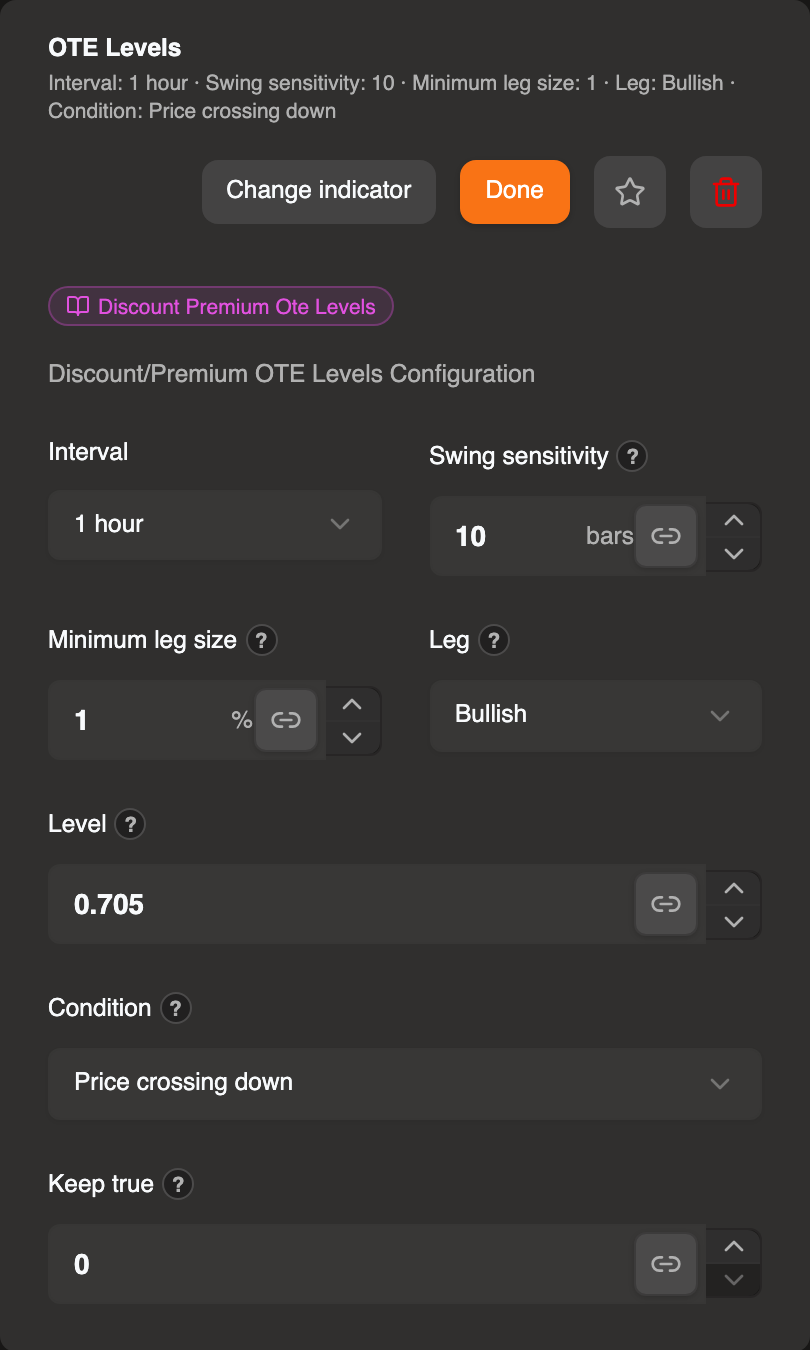
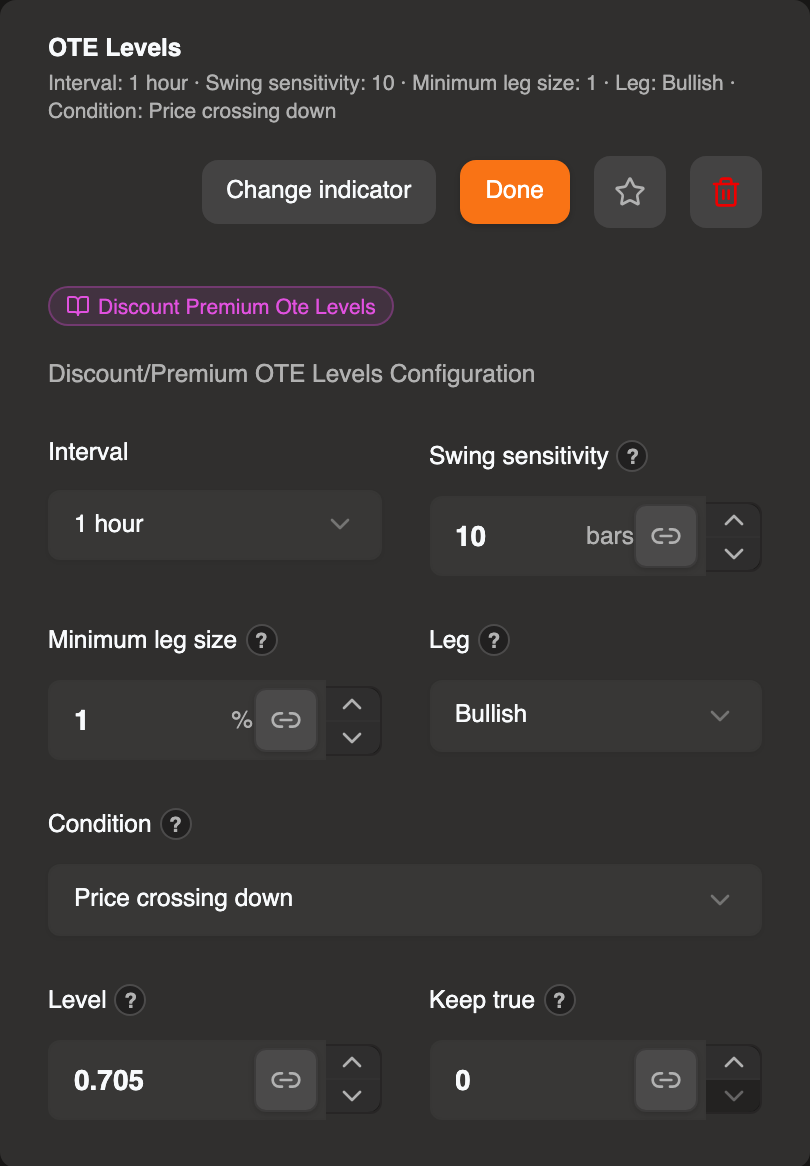
docs(help): OTE Levels — Condition before Level, settings screenshot retaken

diff --git a/docs/help/discount-premium-ote-levels.md b/docs/help/discount-premium-ote-levels.md
@@ -78,19 +78,19 @@ In your bot's settings, open the deal start (or another indicator section), choo
 
 ### Step 2: Configure the Settings
 
-![Discount/Premium OTE Levels settings in the bot form: Interval 1 hour, Swing sensitivity 10 bars, Minimum leg size 1 %, Leg Bullish, Level 0.705, Condition Price crossing down](https://content.gainium.io/images/content/help/discount-premium-ote-levels__settings.webp)
+![Discount/Premium OTE Levels settings in the bot form: Interval 1 hour, Swing sensitivity 10 bars, Minimum leg size 1 %, Leg Bullish, Condition Price crossing down, Level 0.705](https://content.gainium.io/images/content/help/discount-premium-ote-levels__settings.webp)
 
 - **Interval** — the candle timeframe the legs are built on (default: 1 hour).
 - **Swing sensitivity** — how many candles to the left a swing high or low must dominate (default **10**). Higher values find fewer, more significant swings; lower values react to smaller swings.
 - **Minimum leg size** — the smallest move, in percent of the leg's low, that counts as a leg (default **1%**). Raise it on higher timeframes or volatile coins so only meaningful moves create levels.
 - **Leg** — which leg direction the condition reads: **Bullish**, **Bearish** or **Any** (default Bullish). Only the latest leg is ever used; if it points the other way, the condition stays false.
-- **Level** — the retracement level the price is compared with, from 0 (leg end) to 1 (leg origin). Default **0.705**, the OTE sweet spot. Use **0.618** or **0.79** for the edges of the OTE zone, or **0.5** for equilibrium.
 - **Condition** — how the price is compared with the level:
   - **Price crossing down** (default) — the candle closes at or below the level after closing above it on the previous candle.
   - **Price crossing up** — the candle closes at or above the level after closing below it.
   - **Price greater than** / **Price lower than** — the close is above / below the level.
 
   A crossing only counts when both candles belong to the **same leg**. When a new leg forms, every level moves at once, and that jump is not treated as price crossing a level.
+- **Level** — the retracement level the price is compared with, from 0 (leg end) to 1 (leg origin). Default **0.705**, the OTE sweet spot. Use **0.618** or **0.79** for the edges of the OTE zone, or **0.5** for equilibrium.
 - **Keep true** — how many candles the signal stays valid after it fires, like on any other indicator.
 
 ## Reading the Indicator on the Chart
